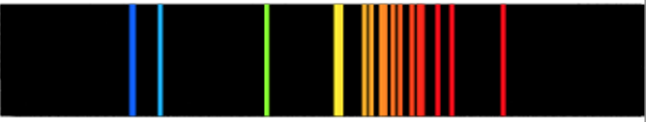
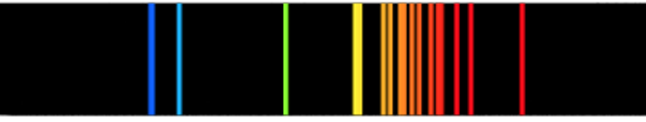
prefinal changes

Changed region(s): [[0.0, 0.0, 1.0, 1.0]]

diff --git a/src/components/HelloWorld.vue b/src/components/HelloWorld.vue
@@ -219,14 +219,14 @@
       minCircularScale: 0,
       maxCircularScale: 50,
       minWl: 380,
-      maxWl: 750,
+      maxWl: 700,
       interval: null,
       isPlaying: false,
       spectroscopeScale: 3,
       imgSrc:"https://i.imgur.com/b0dnEv9.png",
       specters: [
         {name:"Hydrogen", media:{icon:"https://i.imgur.com/WuqRrD7.png",eye:"https://i.imgur.com/y0JdoIU.png"}},
-        {name:"Neon", media:{icon:"https://i.imgur.com/UMplp82.png",eye:"https://i.imgur.com/FjdMk5s.png"}},
+        {name:"Neon", media:{icon:"https://i.imgur.com/l3AN8ff.png",eye:"https://i.imgur.com/FjdMk5s.png"}},
       ]
     }),
 
